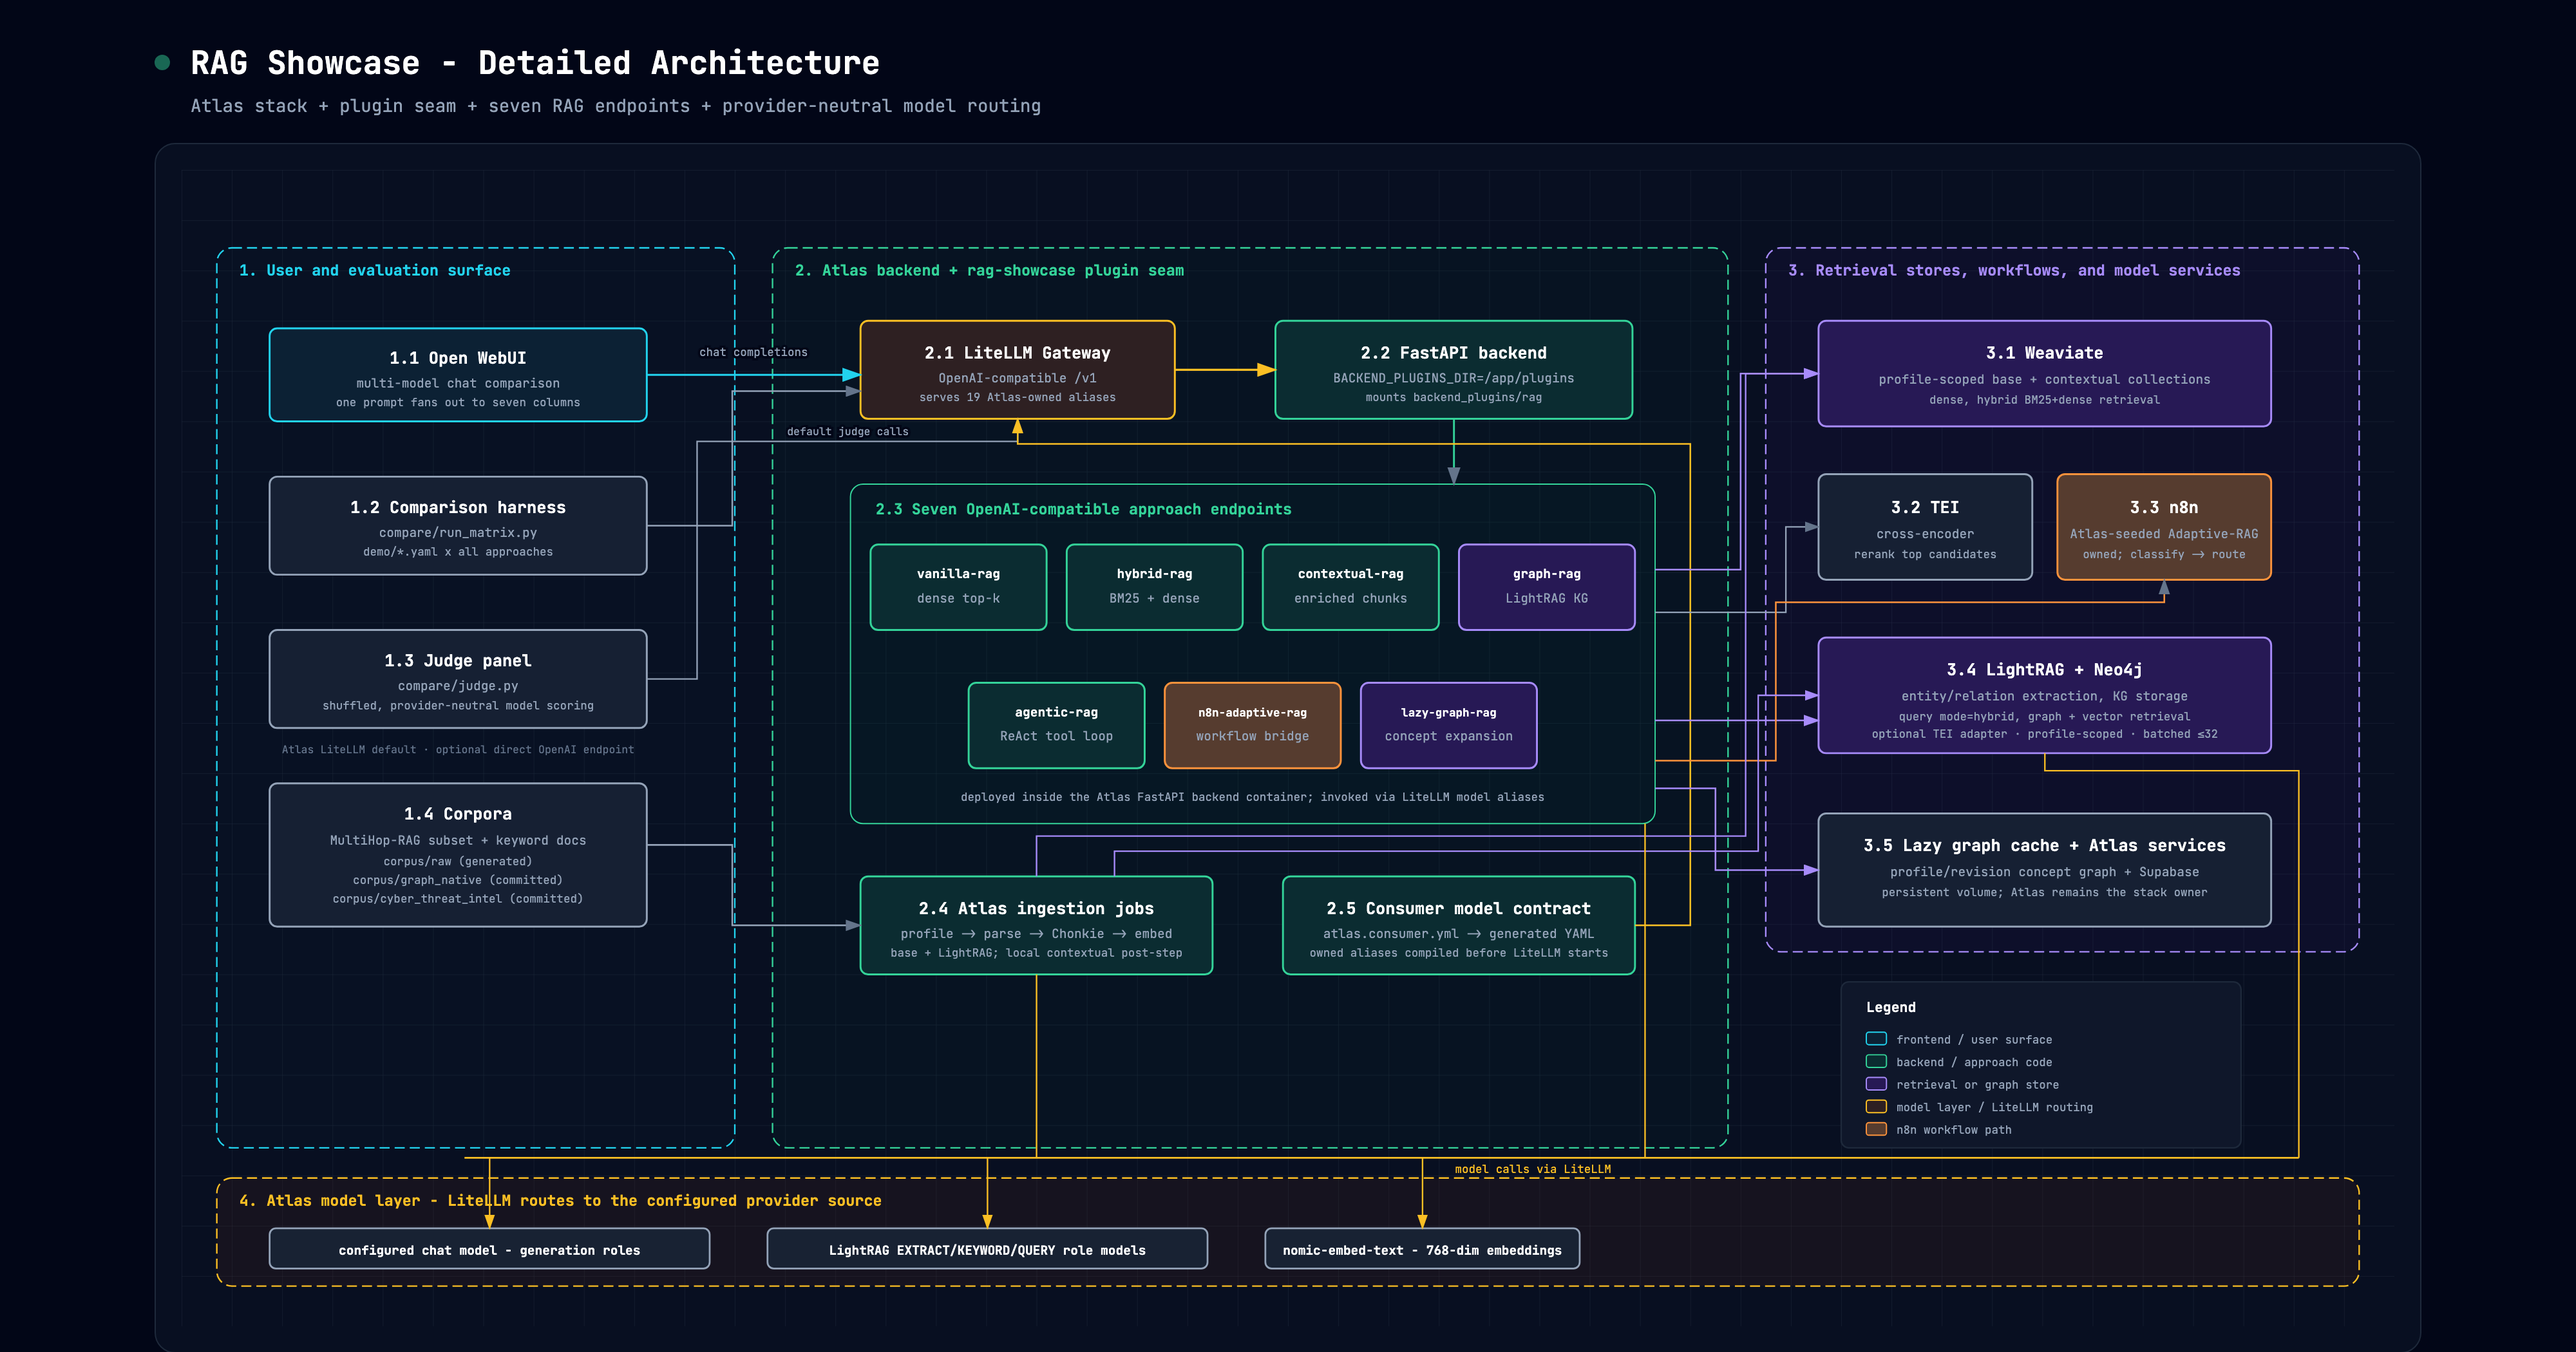
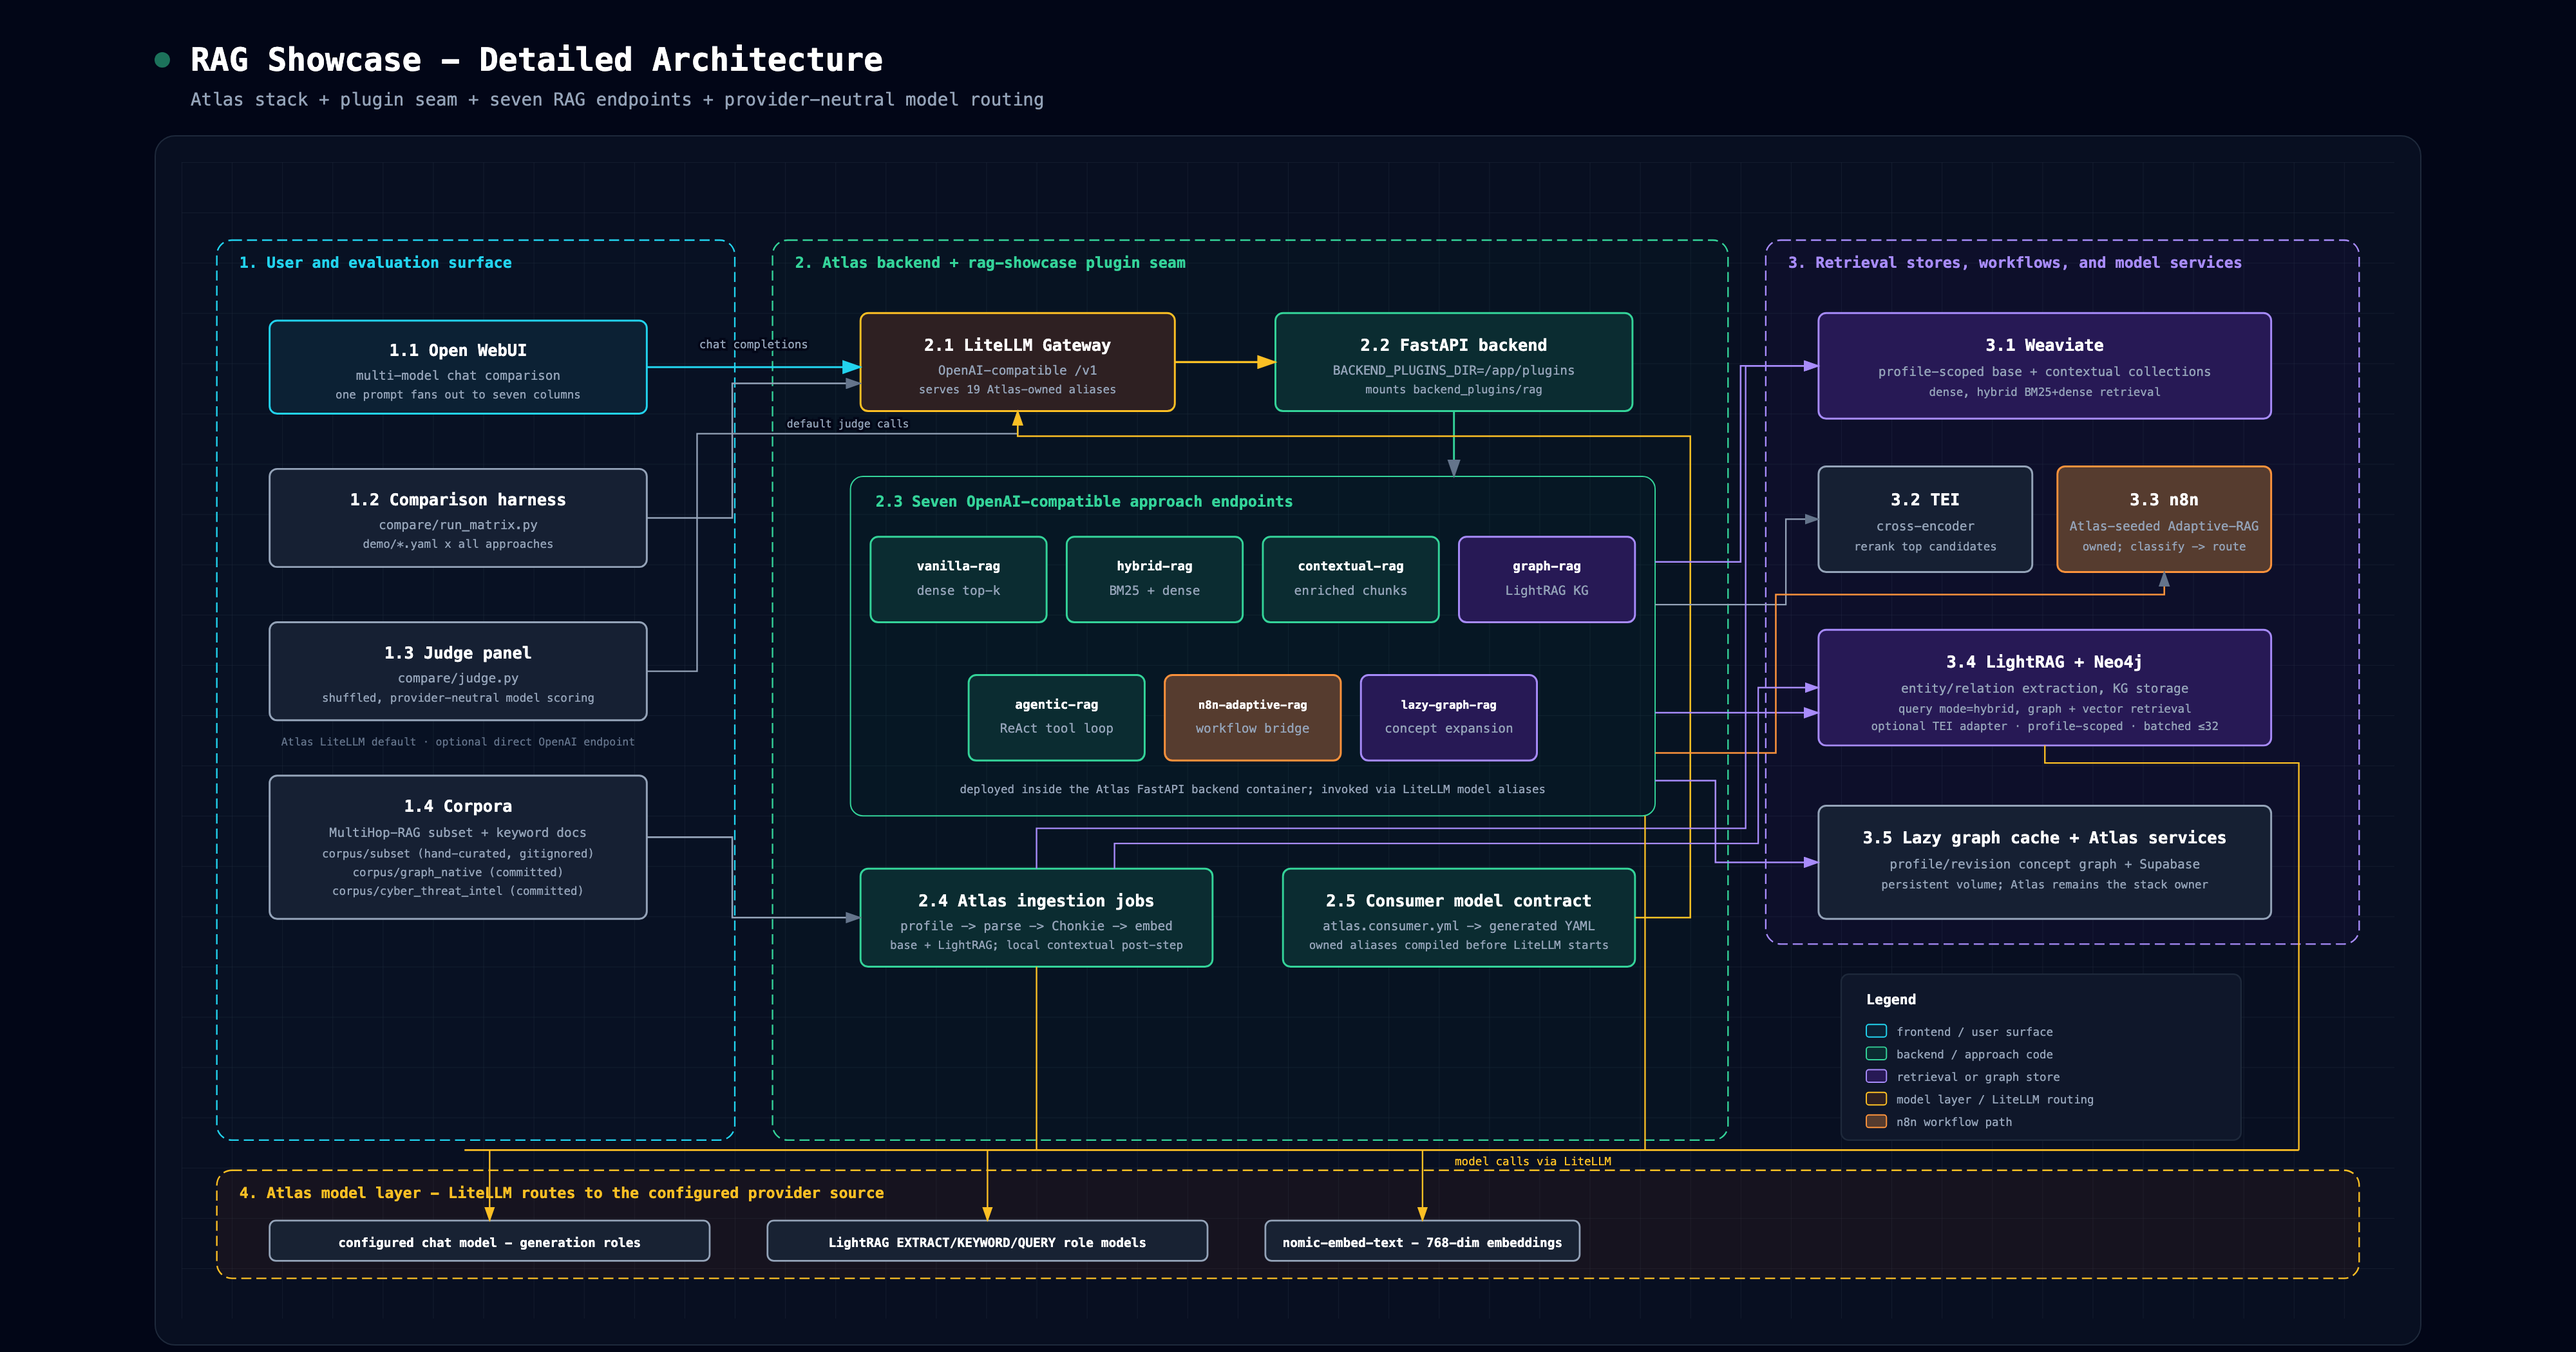
fix: pass-60 — 2 more diagram-text inaccuracies, vacuous flavor-note test, regenerated PNGs
- docs/diagrams/architecture-detailed.html:96: pass-59 corrected the path to
  corpus/subset but left the "(generated)" qualifier, which is itself wrong —
  corpus/README.md is explicit that corpus/subset is "neither committed nor
  auto-regenerated" (a hand-curated, gitignored slice; no script produces
  it, unlike corpus/raw which fetch_corpus.py does generate). Reworded to
  "(hand-curated, gitignored)".
- docs/diagrams/approach-flows.html:155: the n8n lane's "4.1 selected path"
  node-name annotation read "HTTP Call Approach", conflating the actual n8n
  node's name ("Call Approach", per n8n/adaptive-rag.workflow.json:67) with
  its type (httpRequest) — n8n/README.md already documents it correctly as
  "Call Approach (HTTP Request)". Fixed to "Call Approach" (kept short to
  avoid overflowing the 176px box, which no other label in that row exceeds).
- Regenerated docs/diagrams/img/architecture-detailed.png and
  approach-flows.png via the documented headless-Chrome workflow
  (docs/architecture.md §6) — the committed PNGs still showed the pre-fix
  text from pass-59/this pass since render_diagrams.py's cairosvg fallback
  only fires when a PNG is missing, never re-renders an existing one against
  a changed source (confirmed by visual inspection of both regenerated PNGs).
- tests/test_dataset_report.py: test_base_approach_ranked_last_is_not_framed
  _as_a_flavor_result's synthetic manifest entries omitted
  flavor_judgment_snapshot, so flavor_scores stayed {} and
[…]

diff --git a/docs/diagrams/approach-flows.html b/docs/diagrams/approach-flows.html
@@ -152,7 +152,7 @@
           <rect x="210" y="836" width="176" height="54" rx="6" fill="#0f172a" stroke="#fb923c" stroke-width="1.3"/><text x="298" y="858" fill="white" text-anchor="middle">1.1 model=n8n-adaptive-rag</text><text x="298" y="876" fill="#94a3b8" text-anchor="middle">thin webhook wrapper</text>
           <rect x="424" y="836" width="176" height="54" rx="6" fill="#0f172a" stroke="#fb923c" stroke-width="1.3"/><text x="512" y="858" fill="white" text-anchor="middle">2.1 classify</text><text x="512" y="876" fill="#94a3b8" text-anchor="middle">simple vs complex</text>
           <rect x="688" y="836" width="176" height="54" rx="6" fill="#0f172a" stroke="#fb923c" stroke-width="1.3"/><text x="776" y="858" fill="white" text-anchor="middle">3.1 route</text><text x="776" y="876" fill="#94a3b8" text-anchor="middle">vanilla or agentic</text>
-          <rect x="952" y="836" width="176" height="54" rx="6" fill="#0f172a" stroke="#fb923c" stroke-width="1.3"/><text x="1040" y="858" fill="white" text-anchor="middle">4.1 selected path</text><text x="1040" y="876" fill="#94a3b8" text-anchor="middle">HTTP Call Approach</text>
+          <rect x="952" y="836" width="176" height="54" rx="6" fill="#0f172a" stroke="#fb923c" stroke-width="1.3"/><text x="1040" y="858" fill="white" text-anchor="middle">4.1 selected path</text><text x="1040" y="876" fill="#94a3b8" text-anchor="middle">Call Approach</text>
           <rect x="1216" y="836" width="176" height="54" rx="6" fill="#0f172a" stroke="#fbbf24" stroke-width="1.3"/><text x="1304" y="858" fill="white" text-anchor="middle">5.1 workflow result</text><text x="1304" y="876" fill="#94a3b8" text-anchor="middle">Respond to Webhook</text>
           <rect x="1480" y="836" width="176" height="54" rx="6" fill="#0f172a" stroke="#94a3b8" stroke-width="1.3"/><text x="1568" y="858" fill="white" text-anchor="middle">6.1 answer + route</text><text x="1568" y="876" fill="#94a3b8" text-anchor="middle">adaptive source marker</text>
           <rect x="1690" y="836" width="120" height="54" rx="6" fill="#0f172a" stroke="#94a3b8" stroke-width="1.3"/><text x="1750" y="858" fill="white" text-anchor="middle">operator</text><text x="1750" y="876" fill="#94a3b8" text-anchor="middle">configurable</text>

diff --git a/docs/diagrams/architecture-detailed.html b/docs/diagrams/architecture-detailed.html
@@ -93,7 +93,7 @@
         <rect x="70" y="488" width="300" height="114" rx="6" fill="rgba(30,41,59,0.5)" stroke="#94a3b8" stroke-width="1.5"/>
         <text x="220" y="517" fill="white" font-size="13" font-weight="700" text-anchor="middle">1.4 Corpora</text>
         <text x="220" y="537" fill="#94a3b8" font-size="10" text-anchor="middle">MultiHop-RAG subset + keyword docs</text>
-        <text x="220" y="553" fill="#94a3b8" font-size="9" text-anchor="middle">corpus/subset (generated)</text>
+        <text x="220" y="553" fill="#94a3b8" font-size="9" text-anchor="middle">corpus/subset (hand-curated, gitignored)</text>
         <text x="220" y="568" fill="#94a3b8" font-size="9" text-anchor="middle">corpus/graph_native (committed)</text>
         <text x="220" y="583" fill="#94a3b8" font-size="9" text-anchor="middle">corpus/cyber_threat_intel (committed)</text>
 

diff --git a/tests/test_dataset_report.py b/tests/test_dataset_report.py
@@ -86,18 +86,27 @@ def test_dataset_report_write_mode_accepts_absolute_out_of_repo_path(tmp_path) -
 
 
 def test_base_approach_ranked_last_is_not_framed_as_a_flavor_result(monkeypatch) -> None:
-    # A canonical approach landing last in a flavorless regeneration must get the
-    # neutral wording — the "flavor tuning result" framing is reserved for flavor
-    # aliases. Current committed data takes the flavor branch, so drive this one
-    # with synthetic snapshots.
+    # A canonical approach landing last must get the neutral wording — the
+    # "flavor tuning result" framing is reserved for flavor aliases. This must
+    # hold in BOTH _base_family_last_place_note (measured_scores) and
+    # _flavor_last_place_note (flavor_scores): give each dataset a
+    # flavor_judgment_snapshot too, so flavor_scores is non-empty and
+    # _flavor_last_place_note's own `worst in BASE_APPROACHES` branch is
+    # actually exercised, not just the base-snapshot branch. Without this,
+    # flavor_scores stays {} and _flavor_last_place_note early-exits before
+    # reaching that branch at all — the assertions below would then only be
+    # satisfied by the unrelated base-snapshot note, leaving the flavor
+    # branch's neutral-vs-tuning framing completely uncovered.
     import compare.report_datasets as rd
 
     manifest = [{"id": "ds_a", "status": "measured", "complexity_level": 1,
                  "graph_nature": "none", "queries_file": "demo/queries.yaml",
-                 "judgment_snapshot": "unused-a.json"},
+                 "judgment_snapshot": "unused-a.json",
+                 "flavor_judgment_snapshot": "unused-a-flavors.json"},
                 {"id": "ds_b", "status": "measured", "complexity_level": 2,
                  "graph_nature": "none", "queries_file": "demo/queries.yaml",
-                 "judgment_snapshot": "unused-b.json"}]
+                 "judgment_snapshot": "unused-b.json",
+                 "flavor_judgment_snapshot": "unused-b-flavors.json"}]
     synthetic = {
         "unused-a.json": {"queries": [{"query_id": "q1", "observed_winner": "vanilla-rag",
                                        "mean_by_approach": {"vanilla-rag": 4.0,
@@ -105,6 +114,12 @@ def test_base_approach_ranked_last_is_not_framed_as_a_flavor_result(monkeypatch)
         "unused-b.json": {"queries": [{"query_id": "q2", "observed_winner": "vanilla-rag",
                                        "mean_by_approach": {"vanilla-rag": 3.5,
                                                             "n8n-adaptive-rag": 1.5}}]},
+        "unused-a-flavors.json": {"queries": [{"query_id": "q1", "observed_winner": "hybrid-rag-fast",
+                                               "mean_by_approach": {"hybrid-rag-fast": 4.0,
+                                                                    "n8n-adaptive-rag": 1.0}}]},
+        "unused-b-flavors.json": {"queries": [{"query_id": "q2", "observed_winner": "hybrid-rag-fast",
+                                               "mean_by_approach": {"hybrid-rag-fast": 3.5,
+                                                                    "n8n-adaptive-rag": 0.5}}]},
     }
     monkeypatch.setattr(rd, "_load_manifest", lambda: manifest)
     monkeypatch.setattr(rd, "_load_judgments", lambda p: synthetic[p.name])
